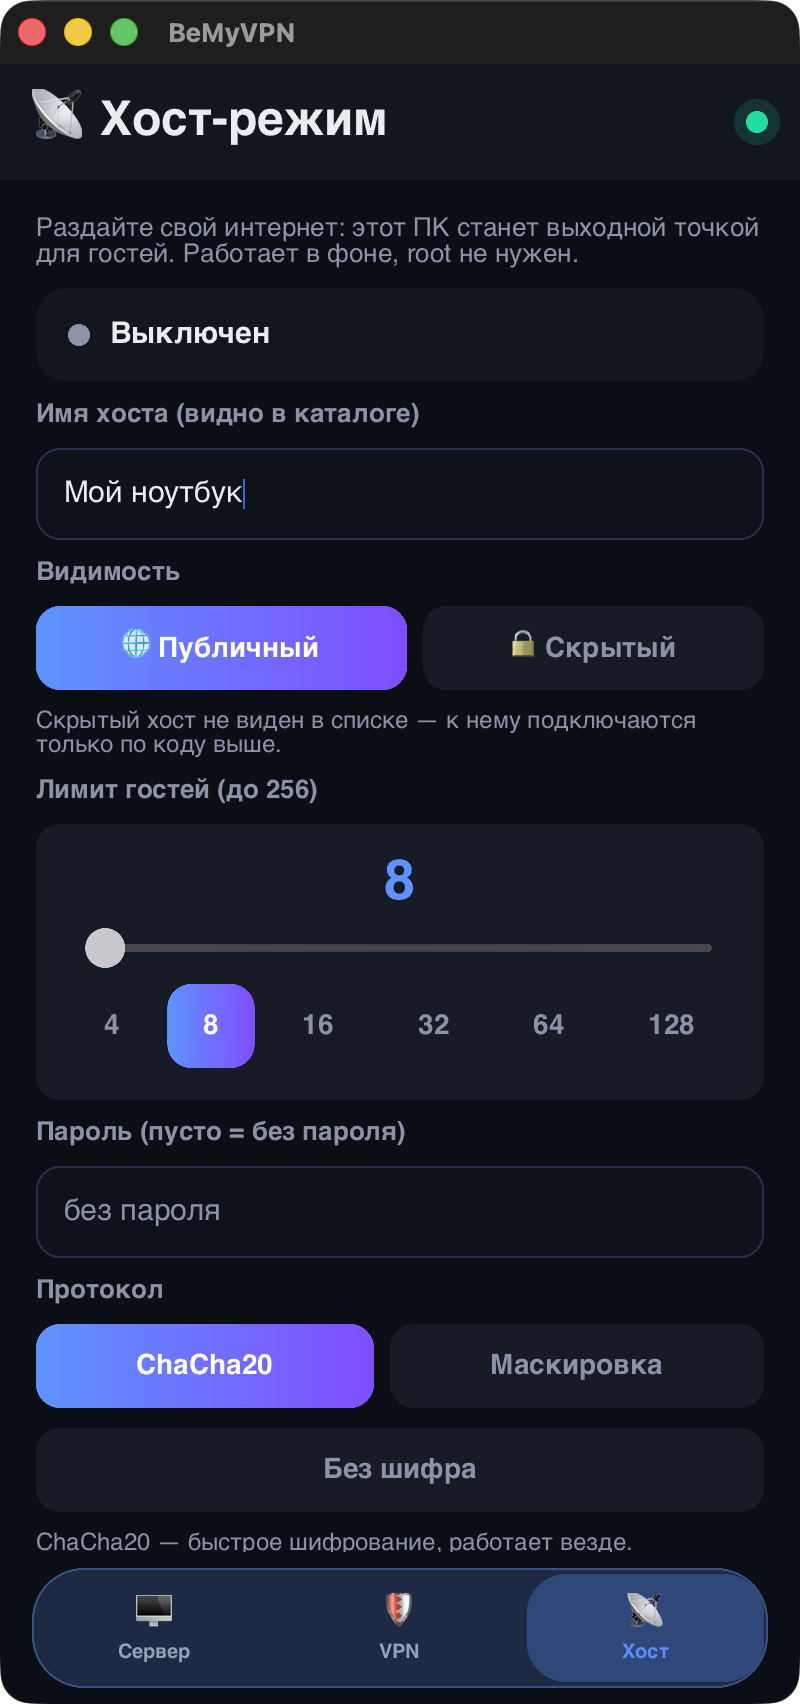
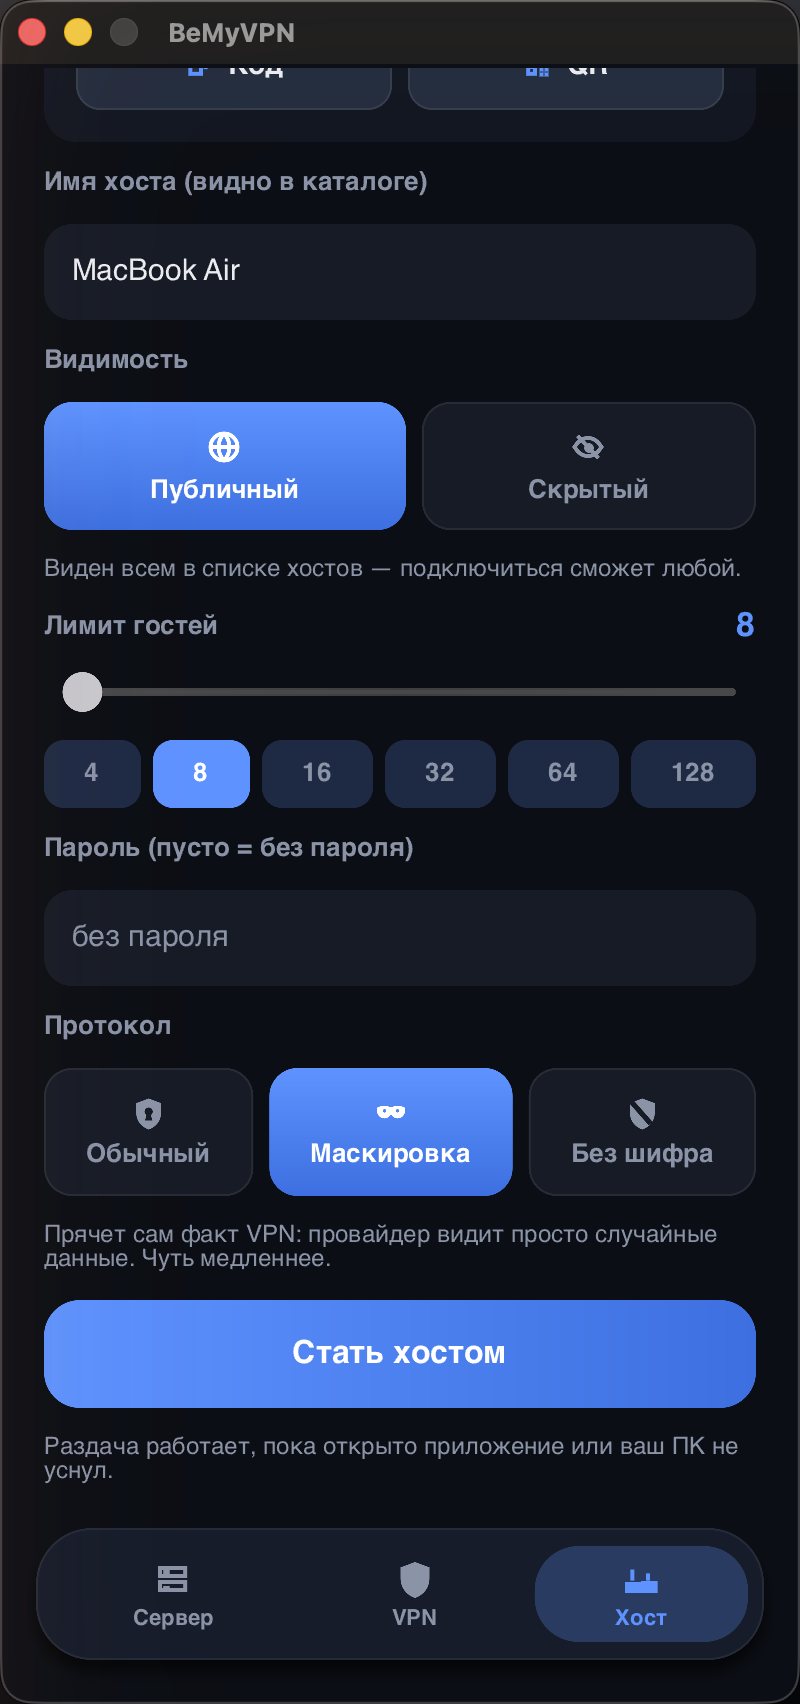
README: свежие скриншоты и актуальные инструкции вместо устаревших
Скриншоты были от 15 июля — до переименования протокола, до живых счётчиков и
до правильных флагов стран. Сняты заново с текущей сборки: список хостов
(видны страны, число гостей и лимит), вкладка Хост целиком (имя, видимость,
лимит, пароль, протокол «Маскировка», кнопка «Стать хостом») и приглашение по
QR. Все три одного размера, снято окно приложения без окружения.

Инструкции: выкинут ручной systemd-юнит для хоста — теперь это одна кнопка
«Стать хостом» под root, она сама заводит службу, переживающую выход из меню,
обрыв SSH и перезагрузку. То же для координатора: вкладка «Сервер» →
«Запустить свой сервер», вместо отсылки к «автозапуску» как отдельной функции.

diff --git a/README.md b/README.md
@@ -9,9 +9,9 @@
 > к информации. Обычный VPN по классу ПО — целиком в рамках закона.
 
 <p align="center">
-  <img src="docs/img/app-vpn.png" width="255" alt="Список хостов — выбирай и подключайся">
-  <img src="docs/img/app-host.png" width="255" alt="Раздать свой интернет — одна кнопка">
-  <img src="docs/img/app-qr.png" width="255" alt="Позвать к себе — код или QR">
+  <img src="docs/img/app-vpn.png" width="255" alt="Список живых хостов со странами и числом гостей — выбирай и подключайся">
+  <img src="docs/img/app-host.png" width="255" alt="Раздать свой интернет: имя, видимость, лимит гостей, пароль, протокол — и одна кнопка">
+  <img src="docs/img/app-qr.png" width="255" alt="Позвать к себе — код сети или QR">
 </p>
 
 ---
@@ -94,23 +94,19 @@ curl -LO https://github.com/mister-PARADISE/bemyvpn/releases/latest/download/bem
 
 Всё — ты в каталоге, к тебе могут подключаться. 🎉
 
-<details><summary>⚙ <b>Чтобы работал всегда (автозапуск, systemd)</b> — клик</summary>
+<details><summary>⚙ <b>Чтобы работал всегда — одна кнопка</b> — клик</summary>
+
+Юниты systemd руками писать не нужно: запусти меню под root и включи хост.
 
 ```bash
-sudo mv bemyvpn-linux-x86_64-terminal /opt/bemyvpn-host && sudo tee /etc/systemd/system/bemyvpn-host.service >/dev/null <<'UNIT'
-[Unit]
-Description=BeMyVPN Host
-After=network-online.target
-Wants=network-online.target
-[Service]
-ExecStart=/opt/bemyvpn-host host --tunnel
-Restart=always
-RestartSec=2
-[Install]
-WantedBy=multi-user.target
-UNIT
-sudo systemctl daemon-reload && sudo systemctl enable --now bemyvpn-host
+sudo ./bemyvpn-linux-x86_64-terminal
 ```
+
+Вкладка **📡 Хост** → **«Стать хостом»**. Раздача поднимется сразу и **переживёт
+выход из меню, обрыв SSH и перезагрузку сервера** — службу приложение заводит
+само. Выключается той же кнопкой, она же и показывает текущее состояние.
+
+Проверить со стороны системы: `systemctl status bemyvpn-host`
 </details>
 
 <details><summary>🖥 <b>Полноэкранное меню в терминале</b> — клик</summary>
@@ -151,7 +147,9 @@ sudo ./bemyvpn --config bemyvpn.toml server
 Проверка: `bemyvpn --coordinator https://твой.домен ping` → «жив ✅».
 В приложениях друзей: вкладка **«Сервер»** → вписать `https://твой.домен`.
 
-Автозапуск (кнопка в меню / systemd) и все команды — в [docs/RUNNING.md](docs/RUNNING.md).
+Чтобы координатор работал всегда — в меню вкладка **🌐 Сервер** → **«Запустить
+свой сервер»**: служба заведётся сама и переживёт перезагрузку. Все команды и
+подробности — в [docs/RUNNING.md](docs/RUNNING.md).
 </details>
 
 ---
